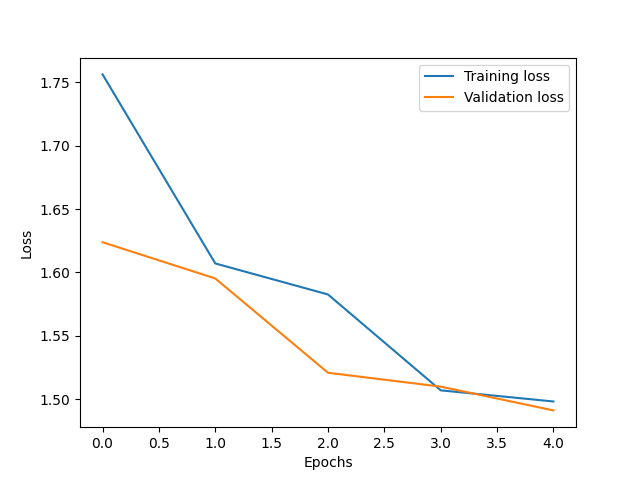
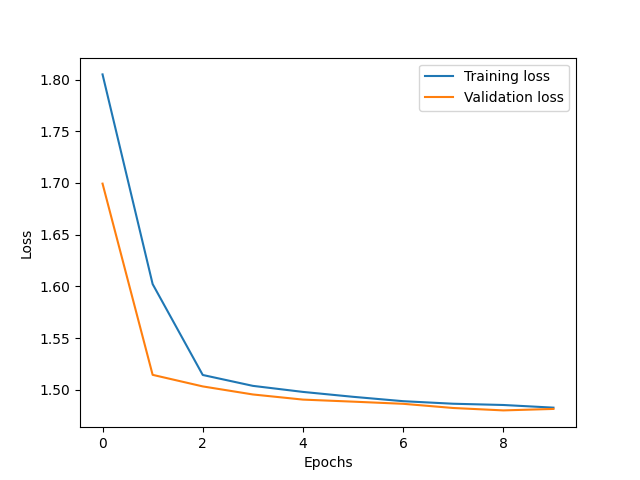
Add torch lightning

diff --git a/src/train_lightning_model.py b/src/train_lightning_model.py
@@ -1,0 +1,76 @@
+import torch
+import argparse
+from pytorch_lightning import Trainer
+from models.model_lightning import LightningModel
+from pytorch_lightning.callbacks import ModelCheckpoint, EarlyStopping
+from pytorch_lightning.loggers import WandbLogger
+import wandb
+
+
+sweep_config = {
+    'method': 'random', #grid, random
+    'metric': {
+      'name': 'val_loss',
+      'goal': 'minimize'   
+    },
+    'parameters': {
+        'lr': {
+            'values': [1e-2, 1e-3, 1e-4]
+        },
+        'bs': {
+            'values': [32, 64]
+        },
+        'epochs': {
+            'values': [5, 10]
+        }
+    }
+}
+
+
+def sweep():
+    # Initialize a new wandb run
+    run = wandb.init()
+
+    # Load hyperparameters from the sweep
+    lr = run.config.lr
+    bs = run.config.bs
+    epochs = run.config.epochs
+
+    train(lr, epochs, bs)
+
+
+def train(lr, epochs, bs):
+    model = LightningModel(lr=lr)
+
+    checkpoint_callback = ModelCheckpoint(
+        dirpath="./models/LightningModel/checkpoints", monitor="val_loss", mode="min"
+    )
+
+    early_stopping_callback = EarlyStopping(
+        monitor="val_loss", patience=3, verbose=True, mode="min"
+    )
+
+    wandb_logger = WandbLogger(project="Lightning", log_model='all')
+    trainer = Trainer(max_epochs=epochs, callbacks=[checkpoint_callback, early_stopping_callback], logger=wandb_logger)
+
+    train_set = torch.load('data/processed/corruptmnist/train.pt')
+    train_loader = torch.utils.data.DataLoader(train_set, batch_size=bs, shuffle=True)
+
+    test_set = torch.load('data/processed/corruptmnist/train.pt')
+    test_loader = torch.utils.data.DataLoader(test_set, batch_size=bs, shuffle=False)
+
+    trainer.fit(model, train_loader, test_loader)
+    trainer.test(model, test_loader)
+
+
+if __name__ == "__main__":
+    sweep_id = wandb.sweep(sweep_config, project="Lightning")
+    wandb.agent(sweep_id, function=sweep, count=10)
+    """parser = argparse.ArgumentParser(description='Train a PyTorch Lightning model.')
+    parser.add_argument('--lr', type=float, default=1e-3, help='Learning rate')
+    parser.add_argument('--epochs', type=int, default=5, help='Number of epochs')
+    parser.add_argument('--bs', type=int, default=64, help='Batch size')
+
+    args = parser.parse_args()
+
+    train(args.lr, args.epochs, args.bs)"""

diff --git a/src/models/model_lightning.py b/src/models/model_lightning.py
@@ -1,0 +1,64 @@
+import torch
+from torch import nn
+import pytorch_lightning as pl
+
+class LightningModel(pl.LightningModule):
+    def __init__(self, lr=1e-3):
+        super().__init__()
+        self.lr = lr
+        self.conv1 = nn.Sequential(         
+            nn.Conv2d(
+                in_channels=1,              
+                out_channels=16,            
+                kernel_size=5,              
+                stride=1,                   
+                padding=2,                  
+            ),                              
+            nn.ReLU(),                      
+            nn.MaxPool2d(kernel_size=2),    
+        )
+        self.conv2 = nn.Sequential(         
+            nn.Conv2d(16, 32, 5, 1, 2),     
+            nn.ReLU(),                      
+            nn.MaxPool2d(2),                
+        )
+        self.out = nn.Linear(32 * 7 * 7, 10)
+
+    def forward(self, x):
+        x = x.unsqueeze(1) 
+        x = self.conv1(x)
+        x = self.conv2(x)
+        x = x.view(x.size(0), -1)       
+        output = self.out(x)
+        output = nn.Softmax(dim=1)(output)
+        return output
+
+    def training_step(self, batch, batch_idx):
+        x, y = batch
+        logits = self(x)
+        loss = nn.CrossEntropyLoss()(logits, y)
+        self.log('train_loss', loss)
+        return loss
+    
+    def validation_step(self, batch, batch_idx):
+        x, y = batch
+        logits = self(x)
+        loss = nn.CrossEntropyLoss()(logits, y)
+        preds = torch.argmax(logits, dim=1)
+        acc = (preds == y).float().mean()
+        self.log('val_loss', loss, on_step=True, on_epoch=True, prog_bar=True, logger=True)
+        self.log('val_acc', acc, on_step=True, on_epoch=True, prog_bar=True, logger=True)
+        return loss
+
+    def test_step(self, batch, batch_idx):
+        x, y = batch
+        logits = self(x)
+        loss = nn.CrossEntropyLoss()(logits, y)
+        preds = torch.argmax(logits, dim=1)
+        acc = (preds == y).float().mean()
+        self.log('test_loss', loss, on_step=True, on_epoch=True, prog_bar=True, logger=True)
+        self.log('test_acc', acc, on_step=True, on_epoch=True, prog_bar=True, logger=True)
+        return loss
+
+    def configure_optimizers(self):
+        return torch.optim.Adam(self.parameters(), lr=self.lr)

diff --git a/src/train_model.py b/src/train_model.py
@@ -3,6 +3,7 @@ import torch
 from torch import nn, optim
 from models.model import MyAwesomeModel
 import matplotlib.pyplot as plt
+import wandb
 
 from data.make_dataset import mnist
 
@@ -19,8 +20,11 @@ def cli():
 @click.option("--bs", default=64, help="batch size")
 def train(lr, epochs, bs):
     """Train a model on MNIST."""
-    
-    # TODO: Implement training loop here
+
+    wandb.init(project="corruptmnist",
+               config={"lr": lr, "epochs": epochs, "bs": bs},
+               tags=["training", "corruptmnist"])
+
     model = MyAwesomeModel()
     train_set = torch.load('data/processed/corruptmnist/train.pt')
     train_loader = torch.utils.data.DataLoader(train_set, batch_size=bs, shuffle=True)
@@ -66,6 +70,10 @@ def train(lr, epochs, bs):
             acc = correct / len(test_loader.dataset)
             print(f"Accuracy: {acc*100}%")
             test_losses.append(val_loss / len(test_loader))
+
+            wandb.log({"train_loss": train_losses[-1],
+                    "val_loss": test_losses[-1],
+                    "val_acc": acc})
 
     plt.figure()
     plt.plot(train_losses, label="Training loss")
